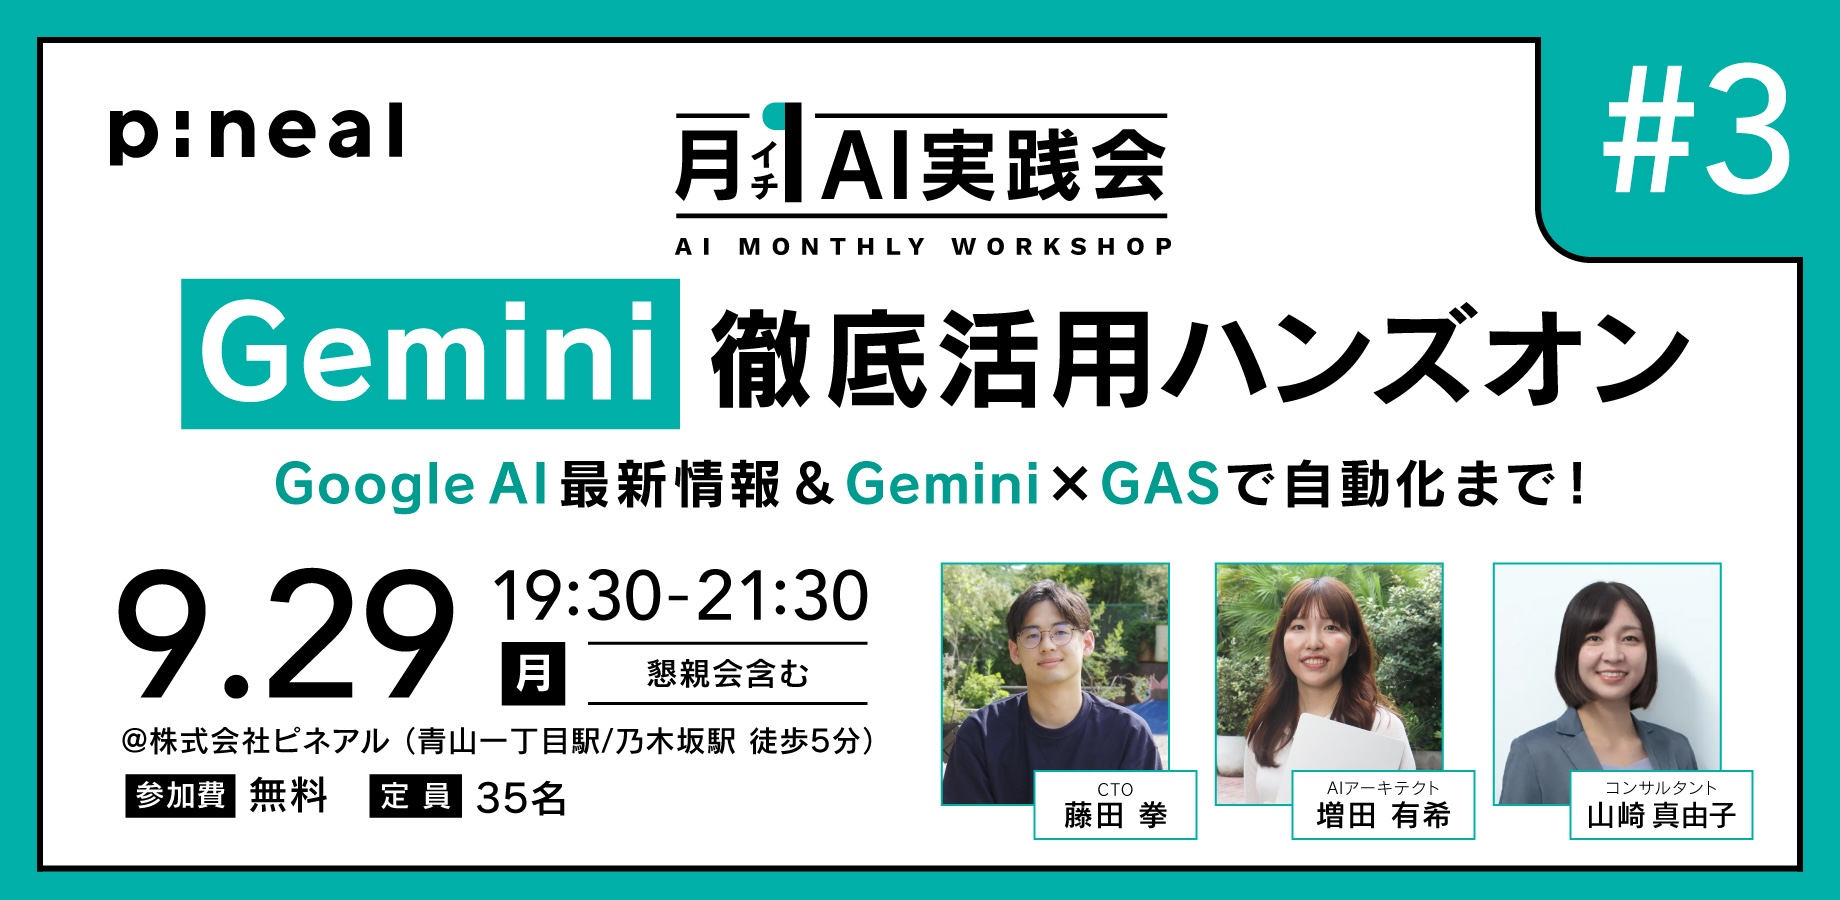
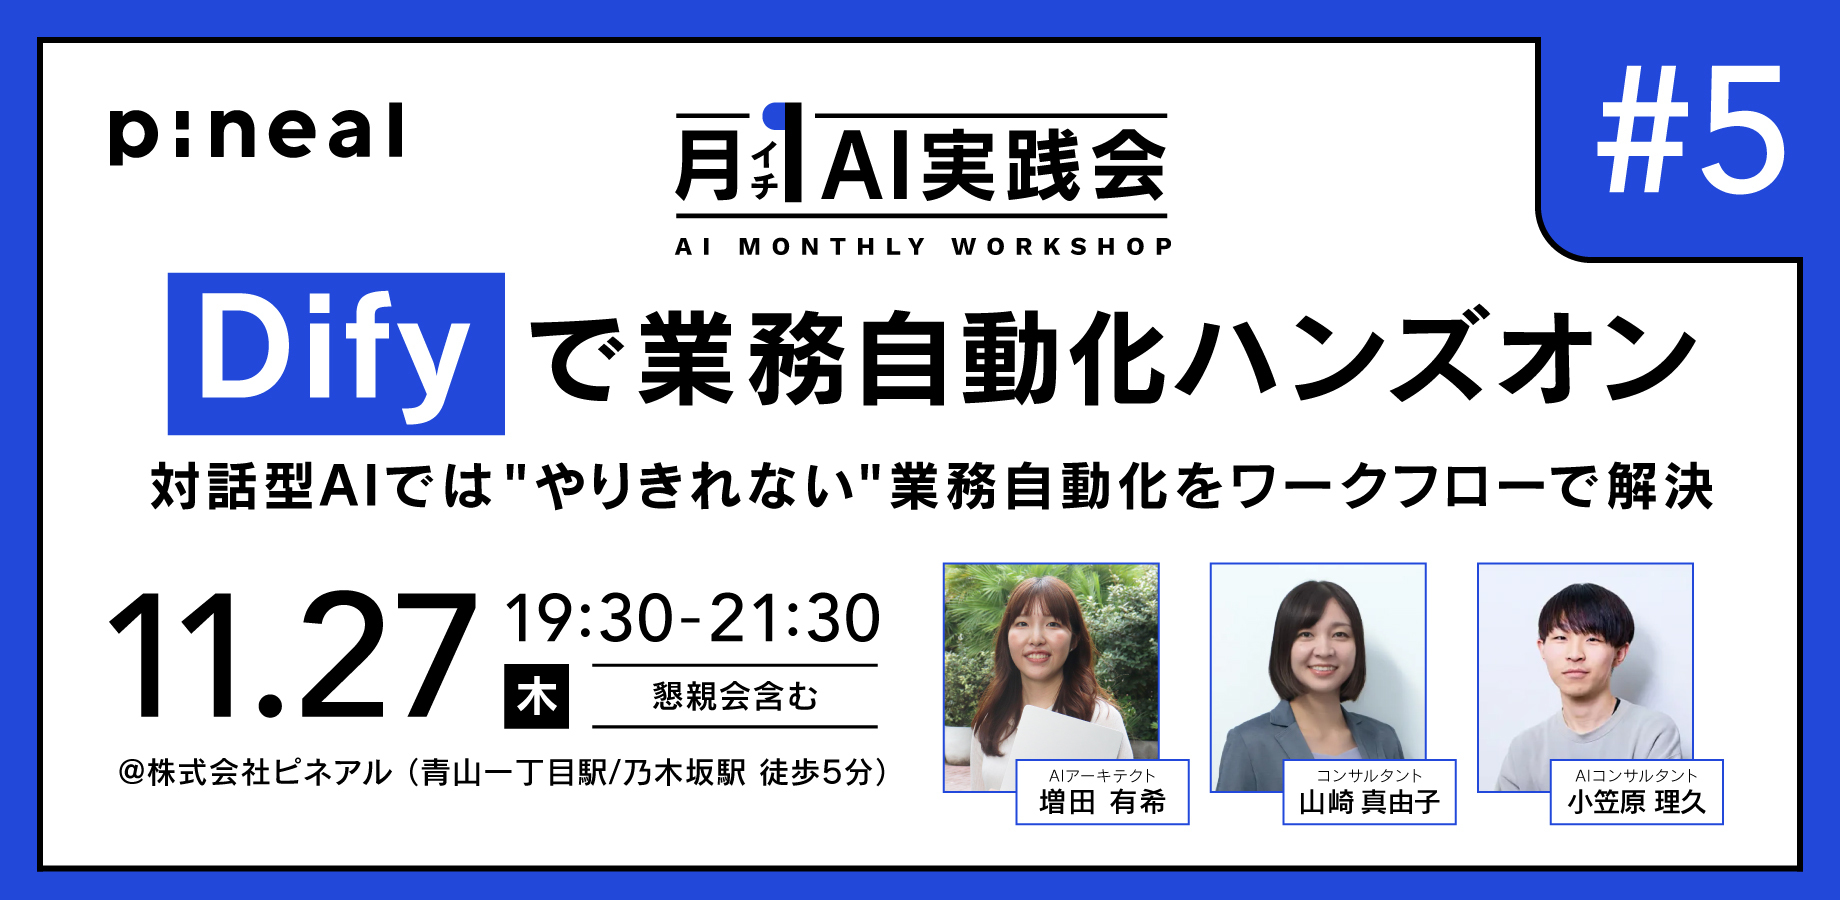
11/27 修正: 月イチAI実践会#5 Dify×業務自動化ハンズオンに内容更新

diff --git a/index.html b/index.html
@@ -3,8 +3,8 @@
 <head>
     <meta charset="UTF-8">
     <meta name="viewport" content="width=device-width, initial-scale=1.0">
-    <meta name="description" content="pineal主催・企業のDX・AI推進担当者様向け「月イチAI実践会」。9月29日開催、Googleの最新AI「Gemini」とGASを活用した業務自動化を実践的に体験できます。参加費無料、軽食付き。">
-    <title>月イチAI実践会 - Gemini×GASで実現する業務自動化ハンズオン | pineal</title>
+    <meta name="description" content="pineal主催・企業のDX・AI推進担当者様向け「月イチAI実践会」。11月27日開催、Difyを活用した業務自動化ワークフローを実践的に体験できます。参加費無料、食事付き。">
+    <title>月イチAI実践会 #5 - Difyで業務自動化ハンズオン | pineal</title>
     <link rel="stylesheet" href="styles.css">
     <link href="https://fonts.googleapis.com/css2?family=Noto+Sans+JP:wght@300;400;500;700;900&display=swap" rel="stylesheet">
 </head>
@@ -29,7 +29,7 @@
         <div class="container">
             <div class="intro-grid">
                 <div class="intro-main">
-                    <h2 class="section-title"><span class="gradient-text">Gemini</span>の効果的な活用方法と、<br><span class="gradient-text">GAS</span>での自動化をハンズオンで学ぶ</h2>
+                    <h2 class="section-title"><span class="gradient-text">Dify</span>で業務自動化ハンズオン<br>対話型AIでは"やりきれない"業務自動化をワークフローで解決</h2>
                     <p class="intro-lead">
                         最新AIツールの実践的な使い方から、<br>
                         業務プロセスの自動化まで、明日から使える知識を習得。
@@ -42,11 +42,11 @@
                     </div>
                     <div class="point-item">
                         <div class="point-icon">✅</div>
-                        <div class="point-text">Geminiの活用方法を学ぶ</div>
+                        <div class="point-text">Difyで業務自動化ワークフロー体験</div>
                     </div>
                     <div class="point-item">
                         <div class="point-icon">✅</div>
-                        <div class="point-text">GASで業務を自動化体験</div>
+                        <div class="point-text">実際に業務で使うノウハウを学ぶ</div>
                     </div>
                 </div>
             </div>
@@ -61,14 +61,21 @@
                     <div class="timeline-time">1</div>
                     <div class="timeline-content">
                         <h4>【最新情報】今月の生成AIアップデート</h4>
-                        <p>話題の画像生成モデル「Nanobanana」や「NotebookLM」の最新アップデート情報など、知っておきたいAIニュースを分かりやすく解説します。</p>
+                        <p>今月リリースされた機能やアップデート情報など、今月知っておきたい生成AIニュースを分かりやすく解説します。</p>
                     </div>
                 </div>
                 <div class="timeline-item">
                     <div class="timeline-time">2</div>
                     <div class="timeline-content">
-                        <h4>【ハンズオン】Gemini活用法紹介とGASによる自動化体験</h4>
-                        <p>基礎から明日から使える便利な活用例まで、Geminiの能力を最大限に引き出す方法をご紹介します。<br>GASを使った業務自動化も体感いただきますので、「AIへの指示でコードが生成され、業務が自動化される」という、自社で応用可能な一連の流れを習得できます。</p>
+                        <h4>【ハンズオン】Difyで業務自動化ワークフロー体験</h4>
+                        <p>既存業務をワークフローに落とし込む方法を学びながら、実際に「Dify」を使った自動化ツール作成までを一緒に体験します。</p>
+                    </div>
+                </div>
+                <div class="timeline-item">
+                    <div class="timeline-time">3</div>
+                    <div class="timeline-content">
+                        <h4>【ノウハウ】実際に業務で使うには？</h4>
+                        <p>Difyのセキュリティー面や、コストについてはもちろん、PowerAutomate等、すでに社内導入されているケースが多いMicrosoft製品との比較や、業務の自動化をPowerAutomateで代替した事例などもご紹介します。</p>
                     </div>
                 </div>
             </div>
@@ -82,27 +89,30 @@
                 <div class="detail-card">
                     <div class="detail-icon">📅</div>
                     <h3>日時</h3>
-                    <p>9月29日(月)<br>19:30-21:30</p>
+                    <p>11月27日(木)<br>19:30-21:30<br><span class="small">※懇親会含む</span></p>
                 </div>
                 <div class="detail-card">
                     <div class="detail-icon">📍</div>
                     <h3>会場</h3>
-                    <p>pinealオフィス<br>青山一丁目駅徒歩圏内</p>
+                    <p>pinealオフィス<br>青山一丁目/乃木坂駅 徒歩5分</p>
                     <a href="https://maps.app.goo.gl/3AdVEMRfqYw4pige9" target="_blank" class="map-link">MAP</a>
                 </div>
                 <div class="detail-card">
                     <div class="detail-icon">👥</div>
                     <h3>定員</h3>
-                    <p>35名<br><span class="small">※定員超過時は抽選</span></p>
+                    <p>20名<br><span class="small">※定員超過時は抽選</span></p>
                 </div>
                 <div class="detail-card">
                     <div class="detail-icon">💻</div>
                     <h3>持ち物</h3>
-                    <p>ノートPC<br>Googleアカウント</p>
+                    <p>ノートPC<br>Difyアカウント<br><span class="small">※事前登録必須</span></p>
                 </div>
             </div>
             <div class="detail-notes">
-                <p>※ 軽食・ドリンク付き / PC貸出可（要事前申請）/ 競合他社・個人の方はご遠慮ください</p>
+                <p>※ 食事・ドリンク付き / PC貸出可（先着2台、要事前申請）/ 競合他社・個人の方はご遠慮ください</p>
+                <p style="margin-top: 12px; font-size: 14px;">※事前にDify（無料）へのご登録をお願いいたします。<br>
+                ハンズオンで実際に操作いただくため、個人で無料のDifyアカウントに登録・ログインいただく必要がございます。<br>
+                <a href="https://dify.ai/jp/pricing" target="_blank" style="color: #4169E1; text-decoration: underline;">https://dify.ai/jp/pricing</a> の「無料で始める」から、アカウントの作成をお願いいたします。</p>
             </div>
         </div>
     </section>
@@ -112,7 +122,7 @@
         <div class="container">
             <div class="cta-box">
                 <h2>皆様のご参加をお待ちしております</h2>
-                <p>定員35名</p>
+                <p>定員20名</p>
                 <a href="https://forms.gle/tTCMNK9kRvJGGcUo7" target="_blank" rel="noopener noreferrer" class="cta-button">
                     今すぐ申し込む
                     <svg class="arrow" width="20" height="20" viewBox="0 0 20 20" fill="none">
